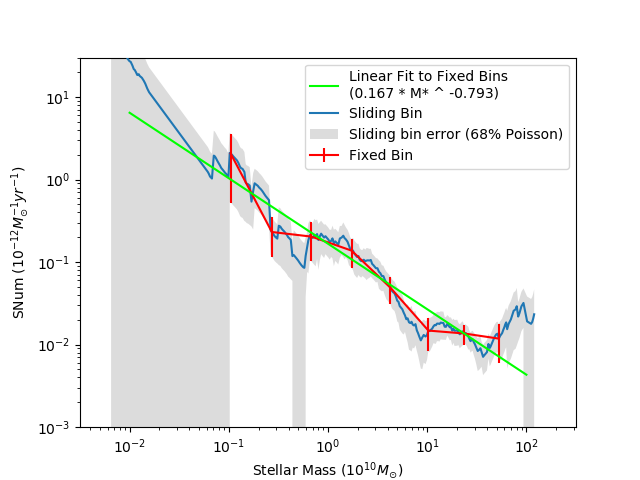
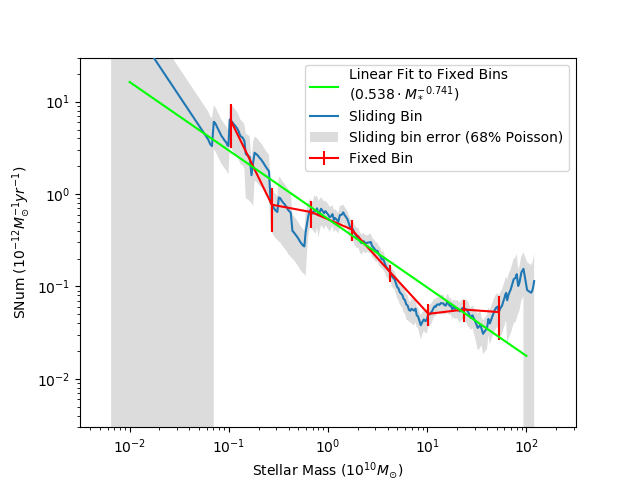
Updated the supernova rate vs mass plot so it shows the method suggested by Graur to calculate the supernova rates

diff --git a/sne_outskirts.py b/sne_outskirts.py
@@ -472,7 +472,7 @@ def total_sn_rate_outskirts(n_bins, save_graph = False, verbose = True, show_gra
     fit_ys = [rate(x) for x in fit_xs]
     plt.plot(fit_xs, fit_ys, color = 'lime', zorder = 20)
 
-    fit_func_str = ('%1.3f' % fit_coefficient) + ' * M* ^ ' + ('%1.3f' % fit_exponent)
+    fit_func_str = ('$' + '%1.3f' % fit_coefficient) + ' \cdot M_*^{' + ('%1.3f' % fit_exponent + '}$')
 
     print('Fit Function (10^10 Msun -> SNuM):', fit_func_str)
 
@@ -756,7 +756,7 @@ def total_rate_dwarfs_all_types():
 
 # calculates the supernova rate in the outskirts of the spiral galaxies in the galaxy sample
 # prints the details of the calculation
-def total_rate_outskirts_spirals_all_types():
+def total_rate_outskirts_spirals_all_types(use_mass_cut = True):
     # parses the full sample of supernovae
     gal_dict = {}
     parse_galaxy_file(gal_dict, 'table2.dat', 'galaxy-full.txt')
@@ -768,7 +768,12 @@ def total_rate_outskirts_spirals_all_types():
     pair_galaxies_and_sne(gal_dict, sne_list)
 
     # limits the list of galaxies to the full_optimal with spirals larger than 10^9 Msun
-    list_galaxies = [curr_gal for curr_gal in gal_dict.values() if curr_gal.full_optimal and curr_gal.hubble_type[0] == 'S' and curr_gal.stellar_mass_Lum > 0.1]
+    if use_mass_cut:
+        list_galaxies = [curr_gal for curr_gal in gal_dict.values() if \
+                         curr_gal.full_optimal and curr_gal.hubble_type[0] == 'S' and curr_gal.stellar_mass_Lum > 0.1]
+    else:
+        list_galaxies = [curr_gal for curr_gal in gal_dict.values() if \
+                         curr_gal.full_optimal and curr_gal.hubble_type[0] == 'S' and curr_gal.stellar_mass_Lum > 0.0]
 
     # gets mass data for the galaxies
     log_gal_masses = [math.log10(10**10 * curr_gal.stellar_mass_Lum) for curr_gal in list_galaxies]
@@ -998,30 +1003,39 @@ def sne_type_distribution():
 
     num_Ia = 0
     num_Ia_outskirts = 0
+    num_Ia_inside = 0
     for g in list_galaxies:
         for sn in g.supernovae:
             if sn.sn_type_class() == 'Ia':
                 num_Ia = num_Ia + 1
                 if sn.distance_ratio("read") >= 1.0:
                     num_Ia_outskirts = num_Ia_outskirts + 1
+                else:
+                    num_Ia_inside = num_Ia_inside + 1
 
     num_SE = 0
     num_SE_outskirts = 0
+    num_SE_inside = 0
     for g in list_galaxies:
         for sn in g.supernovae:
             if sn.sn_type_class() == 'Ib' or sn.sn_type_class() == 'Ic' or sn.sn_type_class() == 'Ibc':
                 num_SE = num_SE + 1
                 if sn.distance_ratio("read") >= 1.0:
                     num_SE_outskirts = num_SE_outskirts + 1
+                else:
+                    num_SE_inside = num_SE_inside + 1
 
     num_II = 0
     num_II_outskirts = 0
+    num_II_inside = 0
     for g in list_galaxies:
         for sn in g.supernovae:
             if sn.sn_type_class() == 'II':
                 num_II = num_II + 1
                 if sn.distance_ratio("read") >= 1.0:
                     num_II_outskirts = num_II_outskirts + 1
+                else:
+                    num_II_inside = num_II_inside + 1
 
     total_sne = num_Ia + num_SE + num_II
     total_sne_outskirts = num_Ia_outskirts + num_SE_outskirts + num_II_outskirts
@@ -1051,27 +1065,37 @@ def sne_type_distribution():
                curr_gal.hubble_type[0] == 'S' and curr_gal.stellar_mass_Lum > 0.1]
 
     spiral_outskirt_Ias = 0
+    spiral_inside_Ias = 0
     for g in spirals:
         for sn in g.supernovae:
             if sn.sn_type_class() == 'Ia':
                 if sn.distance_ratio("read") >= 1.0:
                     spiral_outskirt_Ias = spiral_outskirt_Ias + 1
+                else:
+                    spiral_inside_Ias = spiral_inside_Ias + 1
 
     spiral_outskirt_SEs = 0
+    spiral_inside_SEs = 0
     for g in spirals:
         for sn in g.supernovae:
             if sn.sn_type_class() == 'Ib' or sn.sn_type_class() == 'Ic' or sn.sn_type_class() == 'Ibc':
                 if sn.distance_ratio("read") >= 1.0:
                     spiral_outskirt_SEs = spiral_outskirt_SEs + 1
+                else:
+                    spiral_inside_SEs = spiral_inside_SEs + 1
 
     spiral_outskirt_IIs = 0
+    spiral_inside_IIs = 0
     for g in spirals:
         for sn in g.supernovae:
             if sn.sn_type_class() == 'II':
                 if sn.distance_ratio("read") >= 1.0:
                     spiral_outskirt_IIs = spiral_outskirt_IIs + 1
+                else:
+                    spiral_inside_IIs = spiral_inside_IIs + 1
 
     total_spiral_outskirts = spiral_outskirt_Ias + spiral_outskirt_SEs + spiral_outskirt_IIs
+    total_spiral_inside = spiral_inside_Ias + spiral_inside_SEs + spiral_inside_IIs
 
     print("Total numbers of supernovae in the outskirts of spirals:", total_spiral_outskirts)
     print("Number SNe Ia: ", spiral_outskirt_Ias, "(", "%1.3f" % (100 * spiral_outskirt_Ias / total_spiral_outskirts), "%)")
@@ -1082,6 +1106,17 @@ def sne_type_distribution():
     print("\t68% Confidence interval:", scipy.stats.poisson.interval(0.68, spiral_outskirt_IIs))
     print("CC SNe / SNe Ia: ", spiral_outskirt_SEs + spiral_outskirt_IIs, "/", spiral_outskirt_Ias, "=", \
           "%1.3f" % ((spiral_outskirt_SEs + spiral_outskirt_IIs) / spiral_outskirt_Ias))
+    print()
+
+    print("Total numbers of supernovae in the inside of spirals:", total_spiral_inside)
+    print("Number SNe Ia: ", spiral_inside_Ias, "(", "%1.3f" % (100 * spiral_inside_Ias / total_spiral_inside), "%)")
+    print("\t68% Confidence interval:", scipy.stats.poisson.interval(0.68, spiral_inside_Ias))
+    print("Number SNe SE: ", spiral_inside_SEs, "(", "%1.3f" % (100 * spiral_inside_SEs / total_spiral_inside), "%)")
+    print("\t68% Confidence interval:", scipy.stats.poisson.interval(0.68, spiral_inside_SEs))
+    print("Number SNe II: ", spiral_inside_IIs, "(", "%1.3f" % (100 * spiral_inside_IIs / total_spiral_inside), "%)")
+    print("\t68% Confidence interval:", scipy.stats.poisson.interval(0.68, spiral_inside_IIs))
+    print("CC SNe / SNe Ia: ", spiral_inside_SEs + spiral_inside_IIs, "/", spiral_inside_Ias, "=", \
+          "%1.3f" % ((spiral_inside_SEs + spiral_inside_IIs) / spiral_inside_Ias))
     print()
 
     dwarfs = [curr_gal for curr_gal in list_galaxies if 0.0 < curr_gal.stellar_mass_Lum < 0.1]
@@ -1199,36 +1234,47 @@ def sn_count_cdf(arr, n):
 
 # call the desired function from this __main__ function
 def __main__():
-    spiral_Ia = spiral_sne_vs_radius('Ia', 0.1)
-    spiral_SE = spiral_sne_vs_radius('SE', 0.1)
-    spiral_II = spiral_sne_vs_radius('II', 0.1)
-    dwarf_Ia = dwarf_sne_vs_radius('Ia', 0.1)
-    dwarf_SE = dwarf_sne_vs_radius('SE', 0.1)
-    dwarf_II = dwarf_sne_vs_radius('II', 0.1)
+    #spiral_Ia = spiral_sne_vs_radius('Ia', 0.1)
+    #spiral_SE = spiral_sne_vs_radius('SE', 0.1)
+    #spiral_II = spiral_sne_vs_radius('II', 0.1)
+    #dwarf_Ia = dwarf_sne_vs_radius('Ia', 0.1)
+    #dwarf_SE = dwarf_sne_vs_radius('SE', 0.1)
+    #dwarf_II = dwarf_sne_vs_radius('II', 0.1)
 
-    print(scipy.stats.ks_2samp(spiral_Ia, dwarf_Ia))
-    print(scipy.stats.ks_2samp(spiral_SE, dwarf_SE))
-    print(scipy.stats.ks_2samp(spiral_II, dwarf_II))
+    #print(scipy.stats.ks_2samp(spiral_Ia, dwarf_Ia))
+    #print(scipy.stats.ks_2samp(spiral_SE, dwarf_SE))
+    #print(scipy.stats.ks_2samp(spiral_II, dwarf_II))
 
-    print(scipy.stats.anderson_ksamp([spiral_Ia, dwarf_Ia]))
-    print(scipy.stats.anderson_ksamp([spiral_SE, dwarf_SE]))
-    print(scipy.stats.anderson_ksamp([spiral_II, dwarf_II]))
+    #print(scipy.stats.anderson_ksamp([spiral_Ia, dwarf_Ia]))
+    #print(scipy.stats.anderson_ksamp([spiral_SE, dwarf_SE]))
+    #print(scipy.stats.anderson_ksamp([spiral_II, dwarf_II]))
 
     # Example usage of the CDF
-    curr_rad = 1.0
-    print('CDF for Spiral Ias at r / r25 =', curr_rad, ':', sn_count_cdf(spiral_Ia, curr_rad))
+    #curr_rad = 1.0
+    #print('CDF for Spiral Ias at r / r25 =', curr_rad, ':', sn_count_cdf(spiral_Ia, curr_rad))
 
     # Here's how to calculate the CDF for CC SNe:
     # append the list of SNe II radii to the list of SE SNe to produce the list of CC SNe
     # CC SNe = SE SNe + SNe II
-    spiral_CC = spiral_SE + spiral_II
-    dwarf_CC = dwarf_SE + dwarf_II
+    #spiral_CC = spiral_SE + spiral_II
+    #dwarf_CC = dwarf_SE + dwarf_II
 
-    print('CDF for Spiral CCs at r / r25 =', curr_rad, ':', sn_count_cdf(spiral_CC, curr_rad))
-    print('CDF for Dwarf CCs at r / r25 =', curr_rad, ':', sn_count_cdf(dwarf_CC, curr_rad))
+    #print('CDF for Spiral CCs at r / r25 =', curr_rad, ':', sn_count_cdf(spiral_CC, curr_rad))
+    #print('CDF for Dwarf CCs at r / r25 =', curr_rad, ':', sn_count_cdf(dwarf_CC, curr_rad))
 
     #sne_radial_histogram()
 
+    if False:
+        print('*** Spiral Outskirts (M > 10^9 Msun) ***')
+        total_rate_outskirts_spirals_all_types(use_mass_cut=True)
+
+        print('*** Spiral Outskirts ( no mass cut ) ***')
+        total_rate_outskirts_spirals_all_types(use_mass_cut=False)
+
+        print('*** Dwarfs                           ***')
+        total_rate_dwarfs_all_types()
+
+    total_sn_rate_outskirts(10)
+    total_sn_rate_outskirts(10, rate_function=sn_rate_outskirts_all_types, yrange=[0.003, 30])
 
 __main__()
-

diff --git a/rate_calc.py b/rate_calc.py
@@ -112,7 +112,7 @@ def sn_rate_total(galaxy_bin, sn_type):
     return total_sne / control_time_sum, (total_sne - sne_err_low) / control_time_sum, (sne_err_high - total_sne) / control_time_sum
 
 # returns the rate of a certain type of supernova in a bin of galaxies
-def sn_rate_outskirts_all_types(galaxy_bin):
+def sn_rate_outskirts_all_types(galaxy_bin, sn_type_throw_away):
     total_sne = 0
     control_time_sum = 0
     for g in galaxy_bin:
